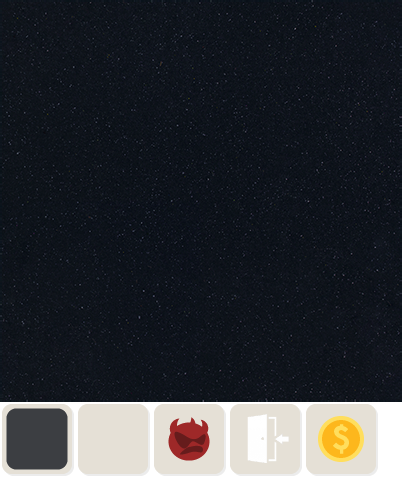
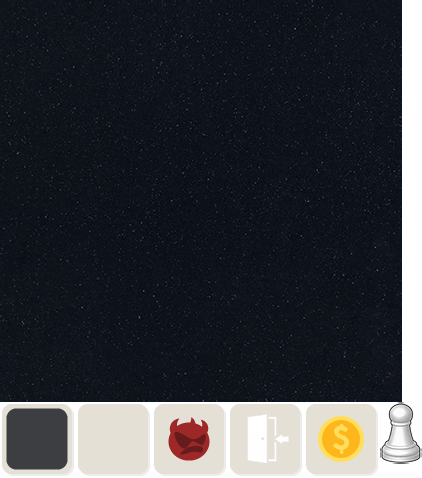
Load temp player sprite at starting point of map

Changed region(s): [[0.3284, 0.0, 1.0, 0.9958], [0.1493, 0.8494, 0.209, 0.9958], [0.0, 0.8787, 0.0299, 0.9665]]

diff --git a/src/js/game-objects/player/index.js b/src/js/game-objects/player/index.js
@@ -1,25 +1,9 @@
-import MovementController from "./movement-controller";
-import EventProxy from "../../helpers/event-proxy";
-
 export default class Player {
   constructor(scene, x, y) {
-    this.sprite = scene.add.sprite(x, y, "assets", "kenney-ship");
-    scene.physics.world.enable(this.sprite);
-    this.movementController = new MovementController(this, this.sprite.body, scene);
-
-    this.proxy = new EventProxy();
-    this.proxy.on(scene.events, "update", this.update, this);
-    this.proxy.on(scene.events, "shutdown", this.destroy, this);
-    this.proxy.on(scene.events, "destroy", this.destroy, this);
-  }
-
-  update(time, delta) {
-    this.movementController.update(time, delta);
+    this.sprite = scene.add.sprite(x, y, "assets", "player");
   }
 
   destroy() {
-    this.movementController.destroy();
     this.sprite.destroy();
-    this.proxy.removeAll();
   }
 }

diff --git a/src/js/scenes/test-scene.js b/src/js/scenes/test-scene.js
@@ -2,6 +2,7 @@ import Phaser from "phaser";
 import store from "../store/index";
 import TILE_TYPES from "../game-objects/level/tile-types";
 import Level from "../game-objects/level/level";
+import Player from "../game-objects/player/index";
 
 export default class Scene extends Phaser.Scene {
   create() {
@@ -9,6 +10,8 @@ export default class Scene extends Phaser.Scene {
       .tileSprite(0, 0, 750, 750, "assets", "subtle-pattern-ep-natural-black")
       .setOrigin(0, 0);
 
-    new Level(this);
+    const level = new Level(this);
+    const playerPosition = level.getStartingPosition();
+    new Player(this, playerPosition.x, playerPosition.y);
   }
 }

diff --git a/src/js/game-objects/level/level.js b/src/js/game-objects/level/level.js
@@ -15,10 +15,23 @@ export default class Level {
 
     this.tiles = this.data.tiles.map((row, y) =>
       row.map((type, x) => {
-        const tile = new Tile(scene, type, 50 + x * 80, 50 + y * 80);
+        const tile = new Tile(scene, type, this.gridXToWorldX(x), this.gridYToWorldY(y));
         if (type === TILE_TYPES.EXIT) tile.flipToFront();
         return tile;
       })
     );
+  }
+
+  getStartingPosition() {
+    const pos = this.data.playerPosition;
+    return { x: this.gridXToWorldX(pos.x), y: this.gridYToWorldY(pos.y) };
+  }
+
+  gridXToWorldX(x) {
+    return 50 + x * 80;
+  }
+
+  gridYToWorldY(y) {
+    return 50 + y * 80;
   }
 }
